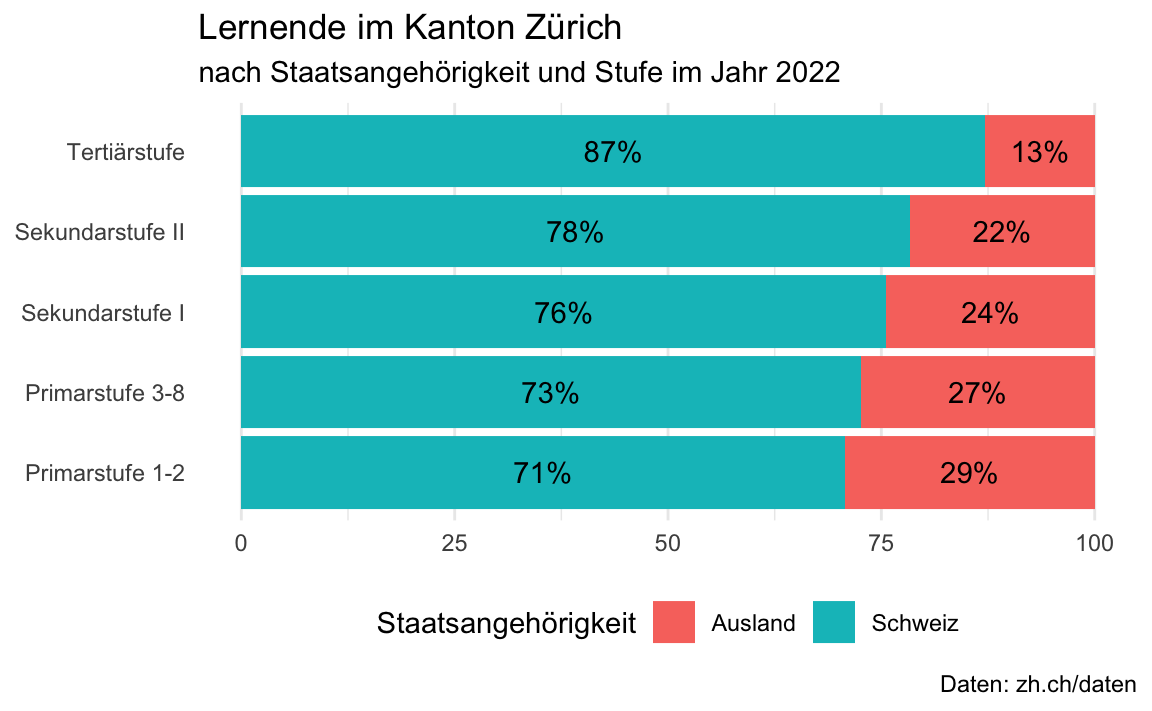
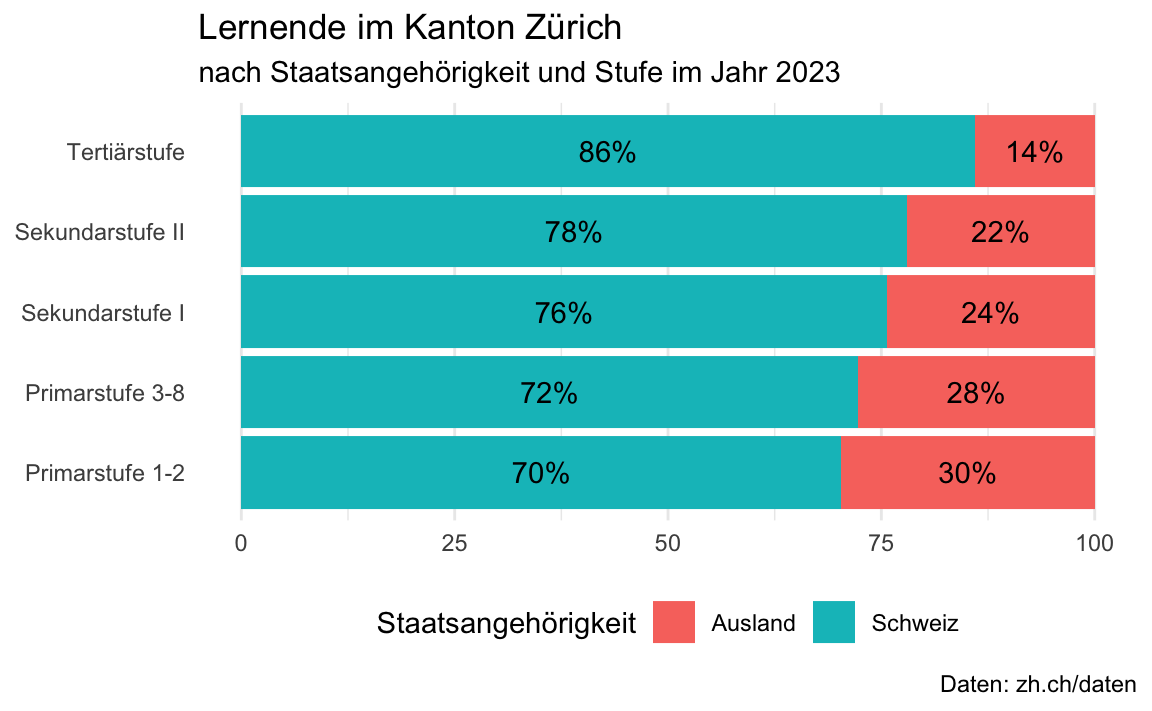
update material

diff --git a/docs/folien/md-06-daten-typen.html b/docs/folien/md-06-daten-typen.html
@@ -414,7 +414,7 @@ Lars Schöbitz
 <h2>Modul 5 - Zusatzaufgabe 3</h2>
 <div class="cell columns column-output-location">
 <div class="column">
-<div class="sourceCode cell-code" id="cb1" data-code-line-numbers="|1-6|7-8|9-14|15-17"><pre class="sourceCode numberSource r number-lines code-with-copy"><code class="sourceCode r"><span id="cb1-1"><a></a><span class="fu">ggplot</span>(<span class="at">data =</span> lernende2022_stufe_staat_sum,</span>
+<div class="sourceCode cell-code" id="cb1" data-code-line-numbers="|1-6|7-8|9-14|15-17"><pre class="sourceCode numberSource r number-lines code-with-copy"><code class="sourceCode r"><span id="cb1-1"><a></a><span class="fu">ggplot</span>(<span class="at">data =</span> lernende_max_stufe_staat_sum,</span>
 <span id="cb1-2"><a></a>       <span class="at">mapping =</span> <span class="fu">aes</span>(<span class="at">x =</span> Stufe, </span>
 <span id="cb1-3"><a></a>                     <span class="at">y =</span> Prozent, </span>
 <span id="cb1-4"><a></a>                     <span class="at">fill =</span> Staatsangehoerigkeit)) <span class="sc">+</span></span>
@@ -423,7 +423,7 @@ Lars Schöbitz
 <span id="cb1-7"><a></a>    <span class="fu">geom_text</span>(<span class="fu">aes</span>(<span class="at">label =</span> <span class="fu">paste0</span>(<span class="fu">round</span>(Prozent, <span class="dv">0</span>), <span class="st">"%"</span>)),  </span>
 <span id="cb1-8"><a></a>              <span class="at">position =</span> <span class="fu">position_stack</span>(<span class="at">vjust =</span> <span class="fl">0.5</span>)) <span class="sc">+</span></span>
 <span id="cb1-9"><a></a>    <span class="fu">labs</span>(<span class="at">title =</span> <span class="st">"Lernende im Kanton Zürich "</span>,</span>
-<span id="cb1-10"><a></a>         <span class="at">subtitle =</span> <span class="st">"nach Staatsangehörigkeit und Stufe im Jahr 2022"</span>,</span>
+<span id="cb1-10"><a></a>         <span class="at">subtitle =</span> <span class="st">"nach Staatsangehörigkeit und Stufe im Jahr 2023"</span>,</span>
 <span id="cb1-11"><a></a>         <span class="at">fill =</span> <span class="st">"Staatsangehörigkeit"</span>,</span>
 <span id="cb1-12"><a></a>         <span class="at">caption =</span> <span class="st">"Daten: zh.ch/daten"</span>,</span>
 <span id="cb1-13"><a></a>         <span class="at">y =</span> <span class="cn">NULL</span>,</span>
@@ -457,8 +457,8 @@ Lars Schöbitz
 <h1>Daten Typen und Vektoren</h1>
 
 </section>
-<section id="why-care-about-data-types-warum-sind-daten-typen-wichtig" class="slide level2">
-<h2>Why care about data types? Warum sind Daten Typen wichtig?</h2>
+<section id="warum-sind-daten-typen-wichtig" class="slide level2">
+<h2>Warum sind Daten Typen wichtig?</h2>
 <div style="width:75%;height:0;padding-bottom:83%;position:relative;">
 <iframe src="https://giphy.com/embed/SvRuvlSEa67wNNHuHy" width="75%" height="75%" style="position:absolute" frameborder="0" class="giphy-embed" allowfullscreen="">
 </iframe>
@@ -782,7 +782,7 @@ Lars Schöbitz
 <span id="cb7-2"><a></a>  <span class="fu">mutate</span>(<span class="at">price_glass_new =</span> <span class="fu">case_when</span>(</span>
 <span id="cb7-3"><a></a>    price_glass <span class="sc">==</span> <span class="st">"5-10"</span> <span class="sc">~</span> <span class="st">"7.5"</span>,</span>
 <span id="cb7-4"><a></a>    price_glass <span class="sc">==</span> <span class="st">"05-Oct"</span> <span class="sc">~</span> <span class="st">"7.5"</span>,</span>
-<span id="cb7-5"><a></a>    <span class="fu">str_detect</span>(price_glass, <span class="at">pattern =</span> <span class="st">"2chf"</span>) <span class="sc">==</span> <span class="cn">TRUE</span> <span class="sc">~</span> <span class="st">"20"</span>,</span>
+<span id="cb7-5"><a></a>    <span class="fu">str_detect</span>(price_glass, <span class="at">pattern =</span> <span class="st">"2chf"</span>) <span class="sc">==</span> <span class="cn">TRUE</span> <span class="sc">~</span> <span class="st">"2"</span>,</span>
 <span id="cb7-6"><a></a>    <span class="fu">str_detect</span>(price_glass, <span class="at">pattern =</span> <span class="st">"See comment"</span>) <span class="sc">==</span> <span class="cn">TRUE</span> <span class="sc">~</span> <span class="cn">NA_character_</span>,</span>
 <span id="cb7-7"><a></a>    <span class="cn">TRUE</span> <span class="sc">~</span> price_glass</span>
 <span id="cb7-8"><a></a>  )) </span></code><button title="Copy to Clipboard" class="code-copy-button"><i class="bi"></i></button></pre></div>
@@ -871,7 +871,7 @@ Lars Schöbitz
 <tr class="odd">
 <td style="text-align: right;">11</td>
 <td style="text-align: left;">Employed</td>
-<td style="text-align: left;">20</td>
+<td style="text-align: left;">2</td>
 <td style="text-align: left;">20 (2chf per person with 10 people in the WG)</td>
 </tr>
 <tr class="even">
@@ -952,7 +952,7 @@ Lars Schöbitz
 <span id="cb8-2" class="hljs-ln-code"><a></a>  <span class="fu">mutate</span>(<span class="at">price_glass_new =</span> <span class="fu">case_when</span>(</span>
 <span id="cb8-3" class="hljs-ln-code"><a></a>    price_glass <span class="sc">==</span> <span class="st">"5-10"</span> <span class="sc">~</span> <span class="st">"7.5"</span>,</span>
 <span id="cb8-4" class="hljs-ln-code"><a></a>    price_glass <span class="sc">==</span> <span class="st">"05-Oct"</span> <span class="sc">~</span> <span class="st">"7.5"</span>,</span>
-<span id="cb8-5" class="hljs-ln-code"><a></a>    <span class="fu">str_detect</span>(price_glass, <span class="at">pattern =</span> <span class="st">"20"</span>) <span class="sc">==</span> <span class="cn">TRUE</span> <span class="sc">~</span> <span class="st">"20"</span>,</span>
+<span id="cb8-5" class="hljs-ln-code"><a></a>    <span class="fu">str_detect</span>(price_glass, <span class="at">pattern =</span> <span class="st">"2chf"</span>) <span class="sc">==</span> <span class="cn">TRUE</span> <span class="sc">~</span> <span class="st">"2"</span>,</span>
 <span id="cb8-6" class="hljs-ln-code"><a></a>    <span class="fu">str_detect</span>(price_glass, <span class="at">pattern =</span> <span class="st">"See comment"</span>) <span class="sc">==</span> <span class="cn">TRUE</span> <span class="sc">~</span> <span class="cn">NA_character_</span>,</span>
 <span id="cb8-7" class="hljs-ln-code"><a></a>    <span class="cn">TRUE</span> <span class="sc">~</span> price_glass</span>
 <span id="cb8-8" class="hljs-ln-code"><a></a>  )) <span class="sc">|&gt;</span> </span>
@@ -1003,7 +1003,7 @@ Lars Schöbitz
 <span id="cb11-2" class="hljs-ln-code"><a></a>  <span class="fu">mutate</span>(<span class="at">price_glass_new =</span> <span class="fu">case_when</span>(</span>
 <span id="cb11-3" class="hljs-ln-code"><a></a>    price_glass <span class="sc">==</span> <span class="st">"5-10"</span> <span class="sc">~</span> <span class="st">"7.5"</span>,</span>
 <span id="cb11-4" class="hljs-ln-code"><a></a>    price_glass <span class="sc">==</span> <span class="st">"05-Oct"</span> <span class="sc">~</span> <span class="st">"7.5"</span>,</span>
-<span id="cb11-5" class="hljs-ln-code"><a></a>    <span class="fu">str_detect</span>(price_glass, <span class="at">pattern =</span> <span class="st">"20"</span>) <span class="sc">==</span> <span class="cn">TRUE</span> <span class="sc">~</span> <span class="st">"20"</span>,</span>
+<span id="cb11-5" class="hljs-ln-code"><a></a>    <span class="fu">str_detect</span>(price_glass, <span class="at">pattern =</span> <span class="st">"2chf"</span>) <span class="sc">==</span> <span class="cn">TRUE</span> <span class="sc">~</span> <span class="st">"2"</span>,</span>
 <span id="cb11-6" class="hljs-ln-code"><a></a>    <span class="fu">str_detect</span>(price_glass, <span class="at">pattern =</span> <span class="st">"See comment"</span>) <span class="sc">==</span> <span class="cn">TRUE</span> <span class="sc">~</span> <span class="cn">NA_character_</span>,</span>
 <span id="cb11-7" class="hljs-ln-code"><a></a>    <span class="cn">TRUE</span> <span class="sc">~</span> price_glass</span>
 <span id="cb11-8" class="hljs-ln-code"><a></a>  )) <span class="sc">|&gt;</span> </span>
@@ -1013,7 +1013,7 @@ Lars Schöbitz
 <pre><code># A tibble: 1 × 1
   mean_price_glass
              &lt;dbl&gt;
-1             4.76</code></pre>
+1             3.90</code></pre>
 </div>
 </div>
 </section>
@@ -1025,7 +1025,7 @@ Lars Schöbitz
 </div>
 <div class="cell">
 <div class="cell-output-display">
-<div class="countdown" id="timer_666086fb" data-update-every="1" tabindex="0" style="right:0;bottom:0;">
+<div class="countdown" id="timer_9cccf080" data-update-every="1" tabindex="0" style="right:0;bottom:0;">
 <div class="countdown-controls"><button class="countdown-bump-down">−</button><button class="countdown-bump-up">+</button></div>
 <code class="countdown-time"><span class="countdown-digits minutes">30</span><span class="countdown-digits colon">:</span><span class="countdown-digits seconds">00</span></code>
 </div>
@@ -1038,7 +1038,7 @@ Lars Schöbitz
 
 <img data-src="img/md-04/pixel-art-tree.png" style="width:50.0%" class="r-stretch"><div class="cell">
 <div class="cell-output-display">
-<div class="countdown" id="timer_366a449a" data-update-every="1" tabindex="0" style="right:0;bottom:0;">
+<div class="countdown" id="timer_c309e23b" data-update-every="1" tabindex="0" style="right:0;bottom:0;">
 <div class="countdown-controls"><button class="countdown-bump-down">−</button><button class="countdown-bump-up">+</button></div>
 <code class="countdown-time"><span class="countdown-digits minutes">10</span><span class="countdown-digits colon">:</span><span class="countdown-digits seconds">00</span></code>
 </div>
@@ -1061,7 +1061,7 @@ Lars Schöbitz
 </div>
 <div class="cell">
 <div class="cell-output-display">
-<div class="countdown" id="timer_5f947ac6" data-update-every="1" tabindex="0" style="right:0;bottom:0;">
+<div class="countdown" id="timer_8d630766" data-update-every="1" tabindex="0" style="right:0;bottom:0;">
 <div class="countdown-controls"><button class="countdown-bump-down">−</button><button class="countdown-bump-up">+</button></div>
 <code class="countdown-time"><span class="countdown-digits minutes">30</span><span class="countdown-digits colon">:</span><span class="countdown-digits seconds">00</span></code>
 </div>
@@ -1075,7 +1075,7 @@ Lars Schöbitz
 </div>
 <div class="cell">
 <div class="cell-output-display">
-<div class="countdown" id="timer_5e6549cb" data-update-every="1" tabindex="0" style="right:0;bottom:0;">
+<div class="countdown" id="timer_1a17a261" data-update-every="1" tabindex="0" style="right:0;bottom:0;">
 <div class="countdown-controls"><button class="countdown-bump-down">−</button><button class="countdown-bump-up">+</button></div>
 <code class="countdown-time"><span class="countdown-digits minutes">15</span><span class="countdown-digits colon">:</span><span class="countdown-digits seconds">00</span></code>
 </div>
@@ -1088,7 +1088,7 @@ Lars Schöbitz
 
 <img data-src="img/md-04/pixel-art-tree.png" style="width:50.0%" class="r-stretch"><div class="cell">
 <div class="cell-output-display">
-<div class="countdown" id="timer_b445124f" data-update-every="1" tabindex="0" style="right:0;bottom:0;">
+<div class="countdown" id="timer_d7124bb3" data-update-every="1" tabindex="0" style="right:0;bottom:0;">
 <div class="countdown-controls"><button class="countdown-bump-down">−</button><button class="countdown-bump-up">+</button></div>
 <code class="countdown-time"><span class="countdown-digits minutes">05</span><span class="countdown-digits colon">:</span><span class="countdown-digits seconds">00</span></code>
 </div>
@@ -1158,7 +1158,7 @@ Lars Schöbitz
 </div>
 <div class="cell">
 <div class="cell-output-display">
-<div class="countdown" id="timer_2a721943" data-update-every="1" tabindex="0" style="right:0;bottom:0;">
+<div class="countdown" id="timer_33371623" data-update-every="1" tabindex="0" style="right:0;bottom:0;">
 <div class="countdown-controls"><button class="countdown-bump-down">−</button><button class="countdown-bump-up">+</button></div>
 <code class="countdown-time"><span class="countdown-digits minutes">20</span><span class="countdown-digits colon">:</span><span class="countdown-digits seconds">00</span></code>
 </div>
@@ -1172,7 +1172,7 @@ Lars Schöbitz
 </div>
 <div class="cell">
 <div class="cell-output-display">
-<div class="countdown" id="timer_3d1522fe" data-update-every="1" tabindex="0" style="right:0;bottom:0;">
+<div class="countdown" id="timer_f3d9d4f4" data-update-every="1" tabindex="0" style="right:0;bottom:0;">
 <div class="countdown-controls"><button class="countdown-bump-down">−</button><button class="countdown-bump-up">+</button></div>
 <code class="countdown-time"><span class="countdown-digits minutes">10</span><span class="countdown-digits colon">:</span><span class="countdown-digits seconds">00</span></code>
 </div>
@@ -1194,8 +1194,8 @@ Lars Schöbitz
 <section id="zusatzaufgaben-abgabedatum" class="slide level2">
 <h2>Zusatzaufgaben Abgabedatum</h2>
 <ul>
-<li>Abgabedatum: <span class="highlight-yellow">Montag, 04. November</span></li>
-<li>Korrektur- und Feedbackphase bis zu: Donnerstag, 07. November</li>
+<li>Abgabedatum: <span class="highlight-yellow">Montag, 07. April</span></li>
+<li>Korrektur- und Feedbackphase bis zu: Donnerstag, 10. April</li>
 </ul>
 </section></section>
 <section>
@@ -1205,7 +1205,8 @@ Lars Schöbitz
 </section>
 <section id="danke-1" class="slide level2">
 <h2>Danke! 🌻</h2>
-<p>Folien erstellt mit revealjs und Quarto: https://quarto.org/docs/presentations/revealjs/ Access slides als <a href="https://github.com/rstatszh-k010/website/raw/main/folien/md-06-daten-typen.pdf">PDF auf GitHub</a></p>
+<p>Folien erstellt mit revealjs und Quarto: https://quarto.org/docs/presentations/revealjs/</p>
+<p>Access slides als <a href="https://github.com/rstatszh-k010/website/raw/main/folien/md-06-daten-typen.pdf">PDF auf GitHub</a></p>
 <p>Alle Materialien sind lizenziert unter <a href="https://creativecommons.org/licenses/by-sa/4.0/">Creative Commons Attribution Share Alike 4.0 International</a>.</p>
 
 <div class="quarto-auto-generated-content">

diff --git a/docs/zusatzaufgaben/md-06/za-06-01-abschlussprojekt.html b/docs/zusatzaufgaben/md-06/za-06-01-abschlussprojekt.html
@@ -265,7 +265,7 @@ ul.task-list li input[type="checkbox"] {
 <p>Du hast nun gelernt wie du mich mittels GitHub Issues erreichen kannst. Falls du Fragen hast, zögere nicht mich zu kontaktieren. Ich bin gerne bereit dir zu helfen.</p>
 <ol type="1">
 <li><p>Öffne <a href="https://github.com/">github.com</a> in deinem Browser.</p></li>
-<li><p>Navigiere zur GitHub-Organisation für den Kurs: <a href="https://github.com/rstatszh-k009">github.com/rstatszh-k009</a></p></li>
+<li><p>Navigiere zur GitHub-Organisation für den Kurs: <a href="https://github.com/rstatszh-k010">github.com/rstatszh-k010</a></p></li>
 <li><p>Finde das Repository <span class="highlight-yellow">projekt-USERNAME</span>, das mit deinem GitHub-Benutzernamen endet.</p></li>
 </ol>
 <p>… eröffne eine Issue.</p>
